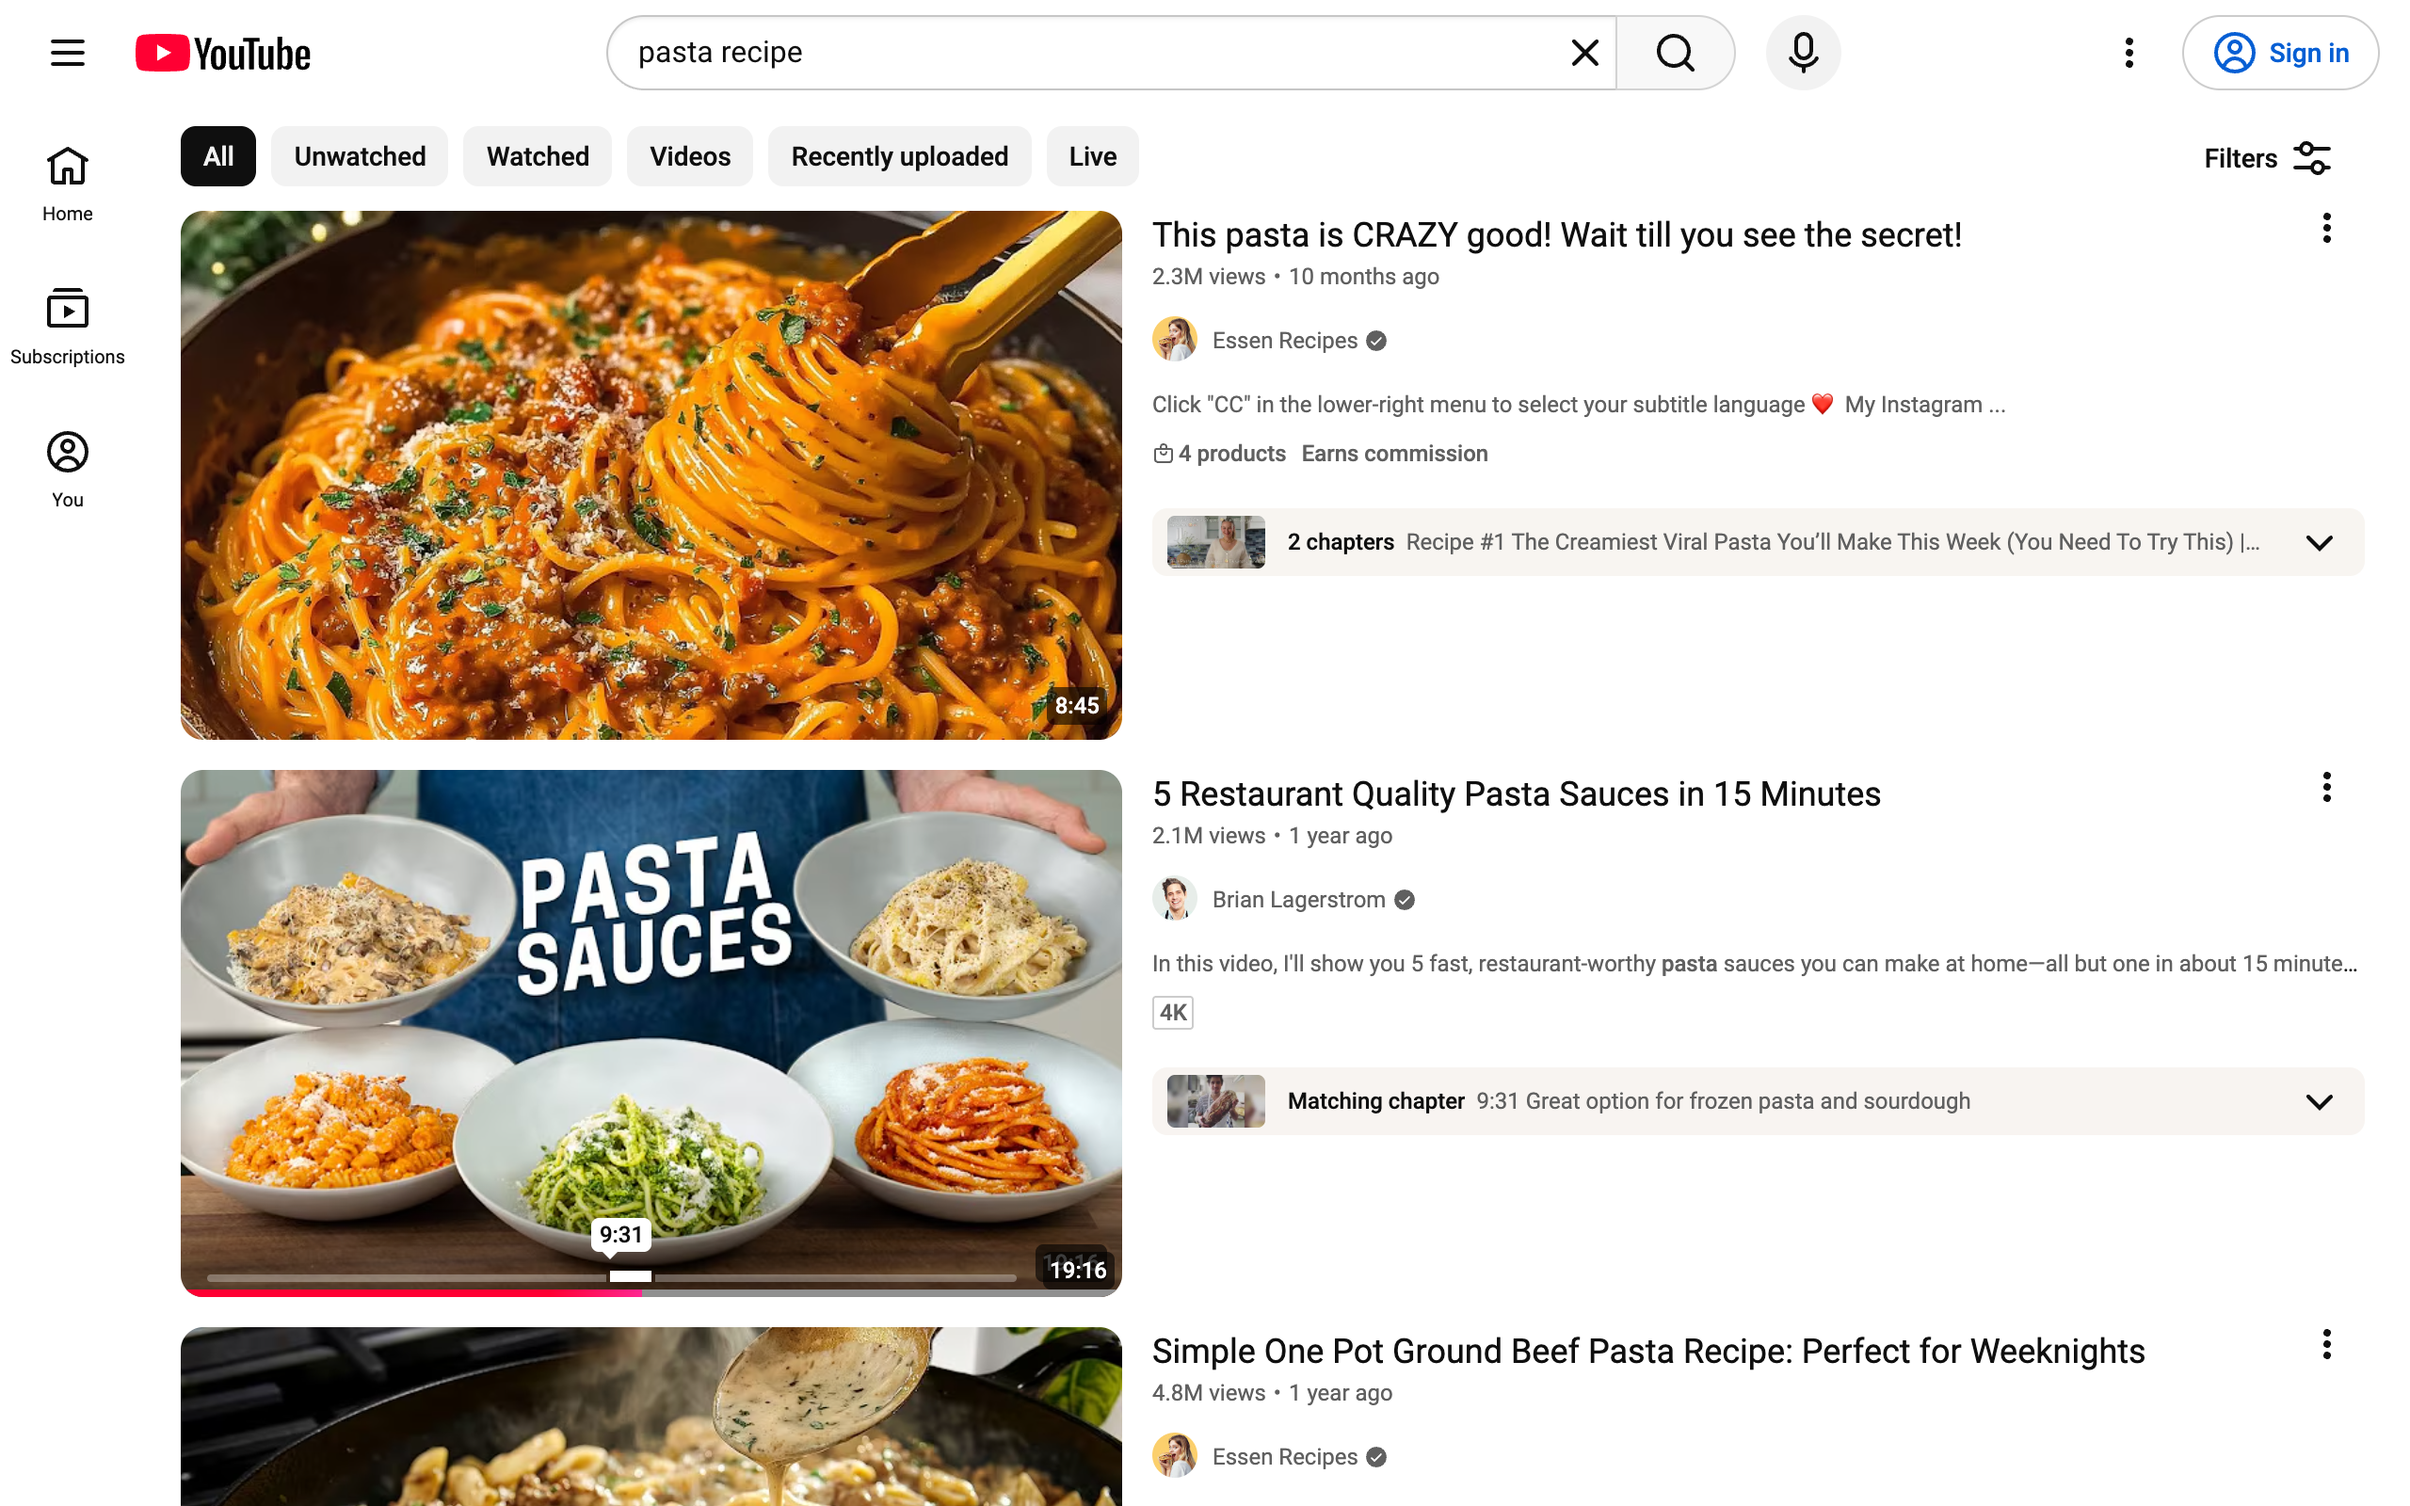
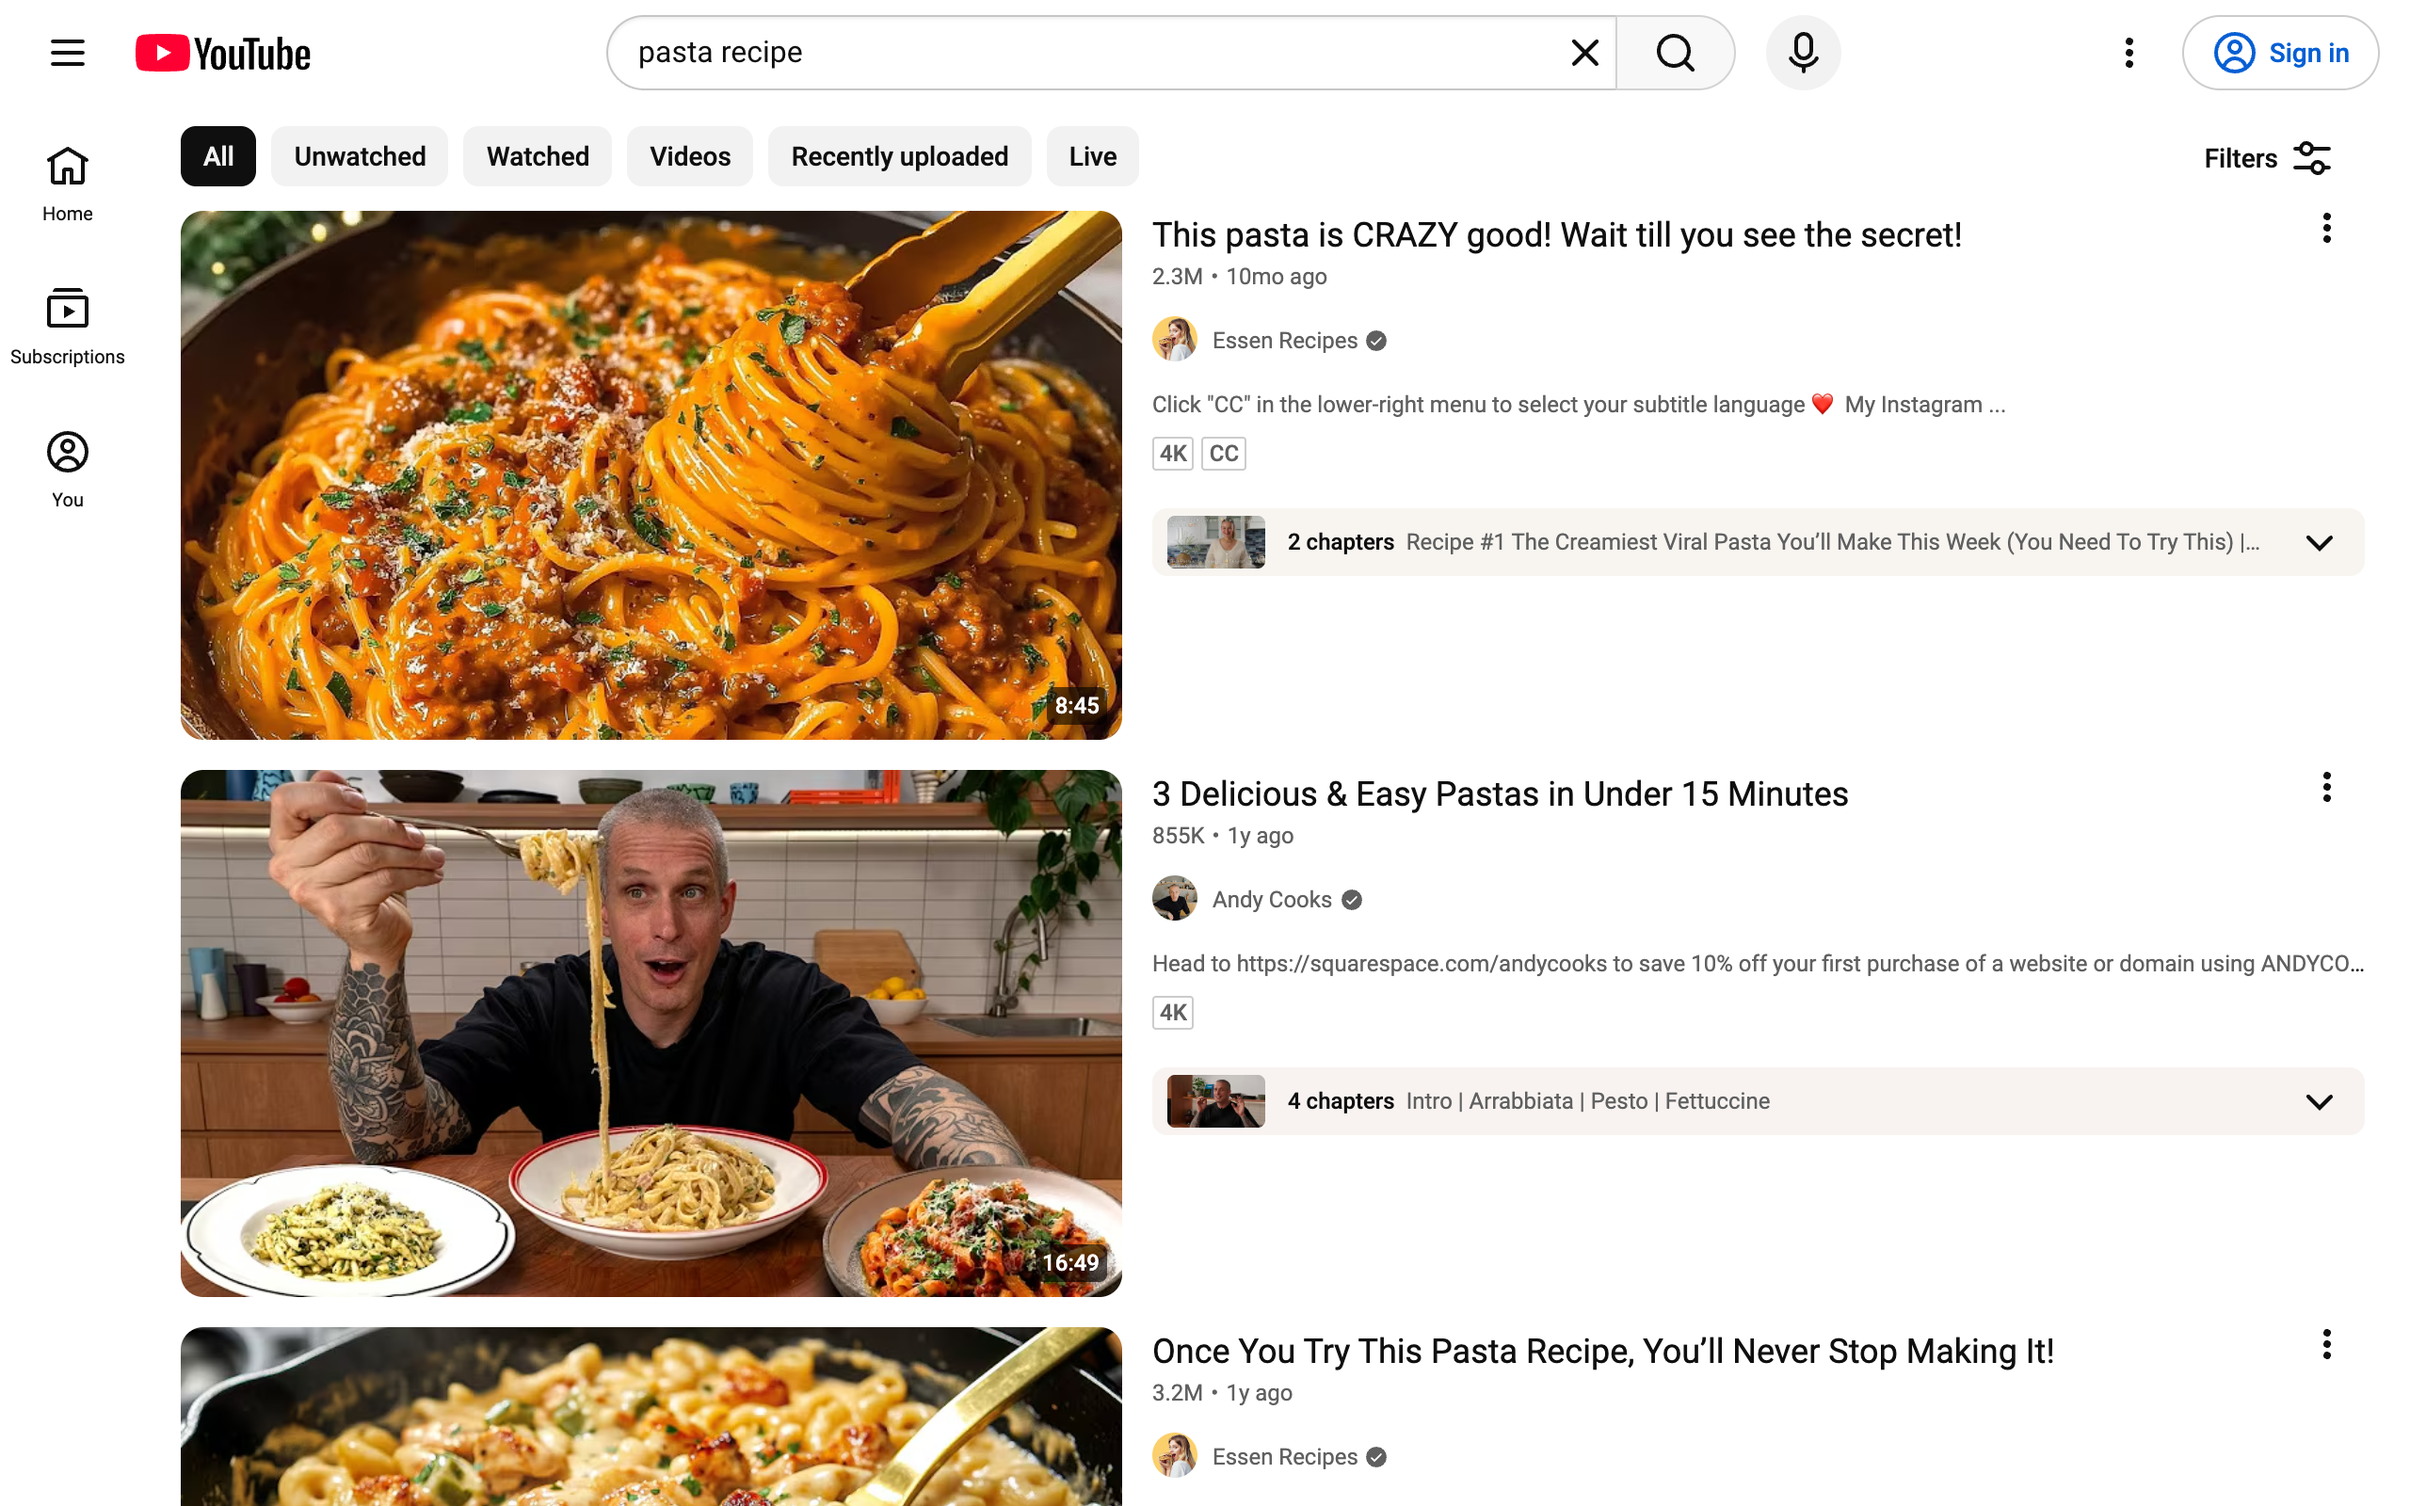
Add the Firefox set, captured in Firefox with the real add-on; drop the mismatched Shorts-link image
capture-firefox.mjs installs the Firefox build as a temporary add-on over the remote
debugging protocol; capture-firefox-window.mjs waits for the popup in a real Firefox
window. Marks now treat overlays on a thumbnail as part of it.

Changed region(s): [[0.0625, 0.5, 0.9688, 1.0], [0.4688, 0.2812, 0.625, 0.3125], [0.5, 0.1562, 0.5938, 0.1875]]

diff --git a/docs/release/screenshots/source/frames/annotate.js b/docs/release/screenshots/source/frames/annotate.js
@@ -109,7 +109,14 @@
   function visible(el, r) {
     const cx = r.left + r.width / 2, cy = r.top + r.height / 2;
     const hit = document.elementFromPoint(cx, cy);
-    const tile = el.parentElement?.parentElement?.parentElement || el;
+    // The picture's own tile: its highest ancestor that is still about the picture's size, so an
+    // overlay (a duration badge, a play icon) laid on top counts as the picture.
+    let tile = el;
+    for (let a = el.parentElement; a && a !== document.body; a = a.parentElement) {
+      const ar = a.getBoundingClientRect();
+      if (ar.width * ar.height > r.width * r.height * 1.8) break;
+      tile = a;
+    }
     if (!hit || !(hit === el || el.contains(hit) || tile.contains(hit))) return false;
     for (let a = el.parentElement; a && a !== document.body; a = a.parentElement) {
       const st = getComputedStyle(a);

diff --git a/docs/release/screenshots/source/frames/tools/winlist.swift b/docs/release/screenshots/source/frames/tools/winlist.swift
@@ -1,0 +1,13 @@
+// Prints the on-screen windows of one app: "<id> <layer> <x> <y> <width> <height>" (points).
+// Used by capture-firefox-window.mjs to find Firefox and its popup. Usage: swift winlist.swift Firefox
+import CoreGraphics
+import Foundation
+let opts = CGWindowListOption(arrayLiteral: .optionOnScreenOnly, .excludeDesktopElements)
+let list = CGWindowListCopyWindowInfo(opts, kCGNullWindowID) as! [[String: Any]]
+for w in list {
+  let owner = w[kCGWindowOwnerName as String] as? String ?? ""
+  if owner != CommandLine.arguments[1] { continue }
+  let b = w[kCGWindowBounds as String] as! [String: CGFloat]
+  let layer = w[kCGWindowLayer as String] as? Int ?? 0
+  print("\(w[kCGWindowNumber as String]!) \(layer) \(Int(b["X"]!)) \(Int(b["Y"]!)) \(Int(b["Width"]!)) \(Int(b["Height"]!))")
+}
